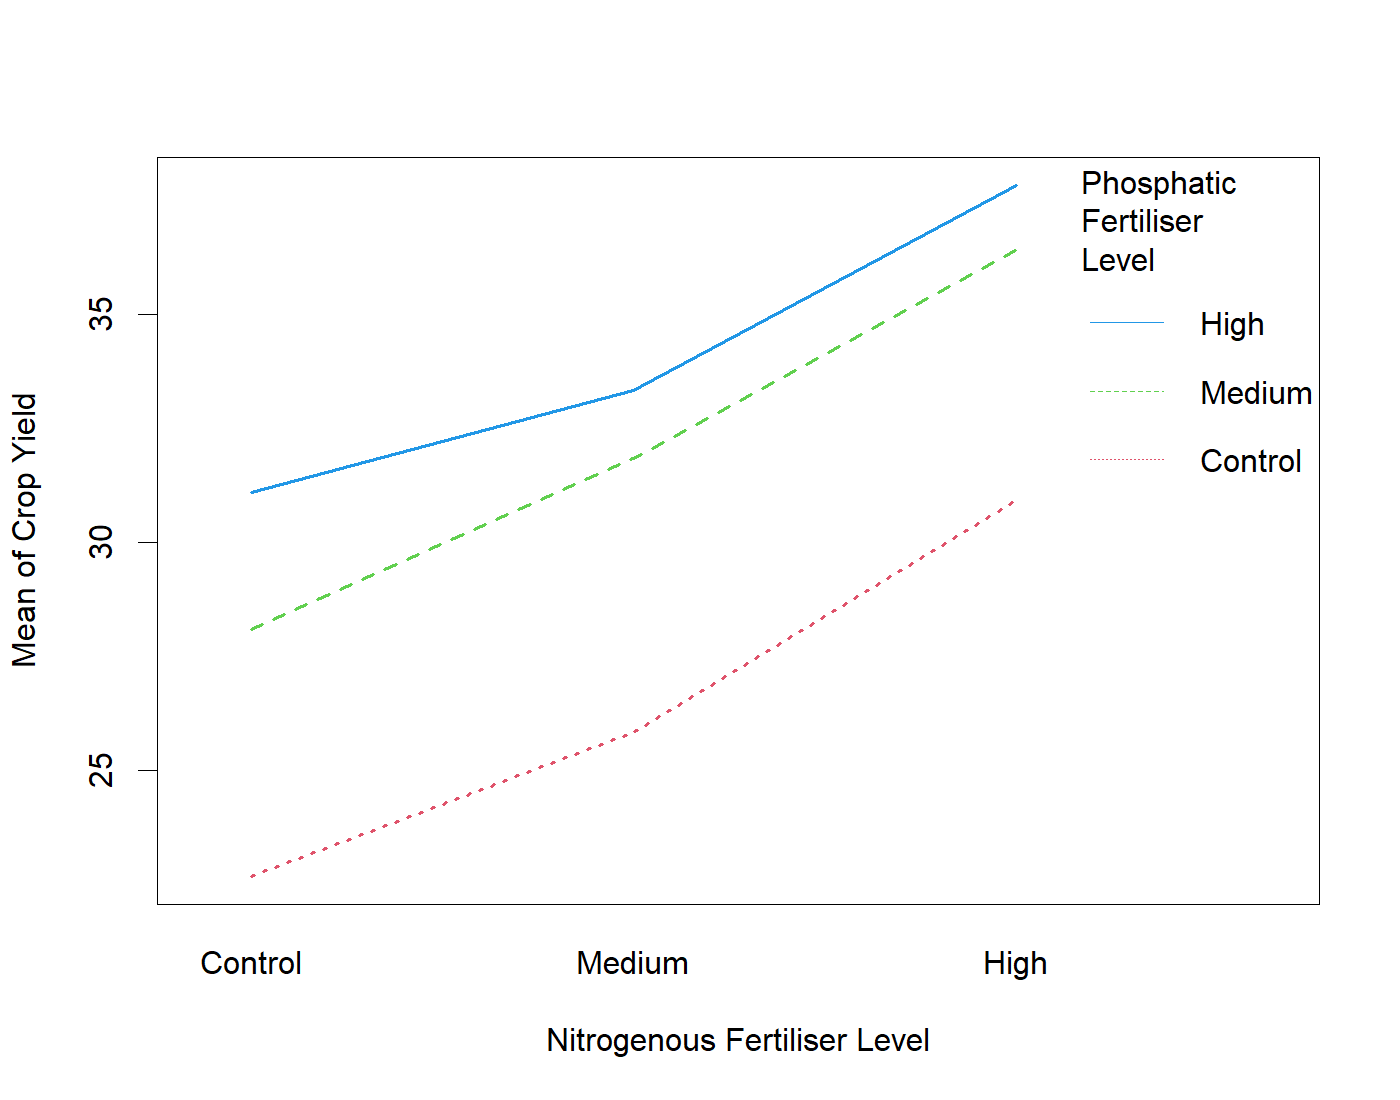
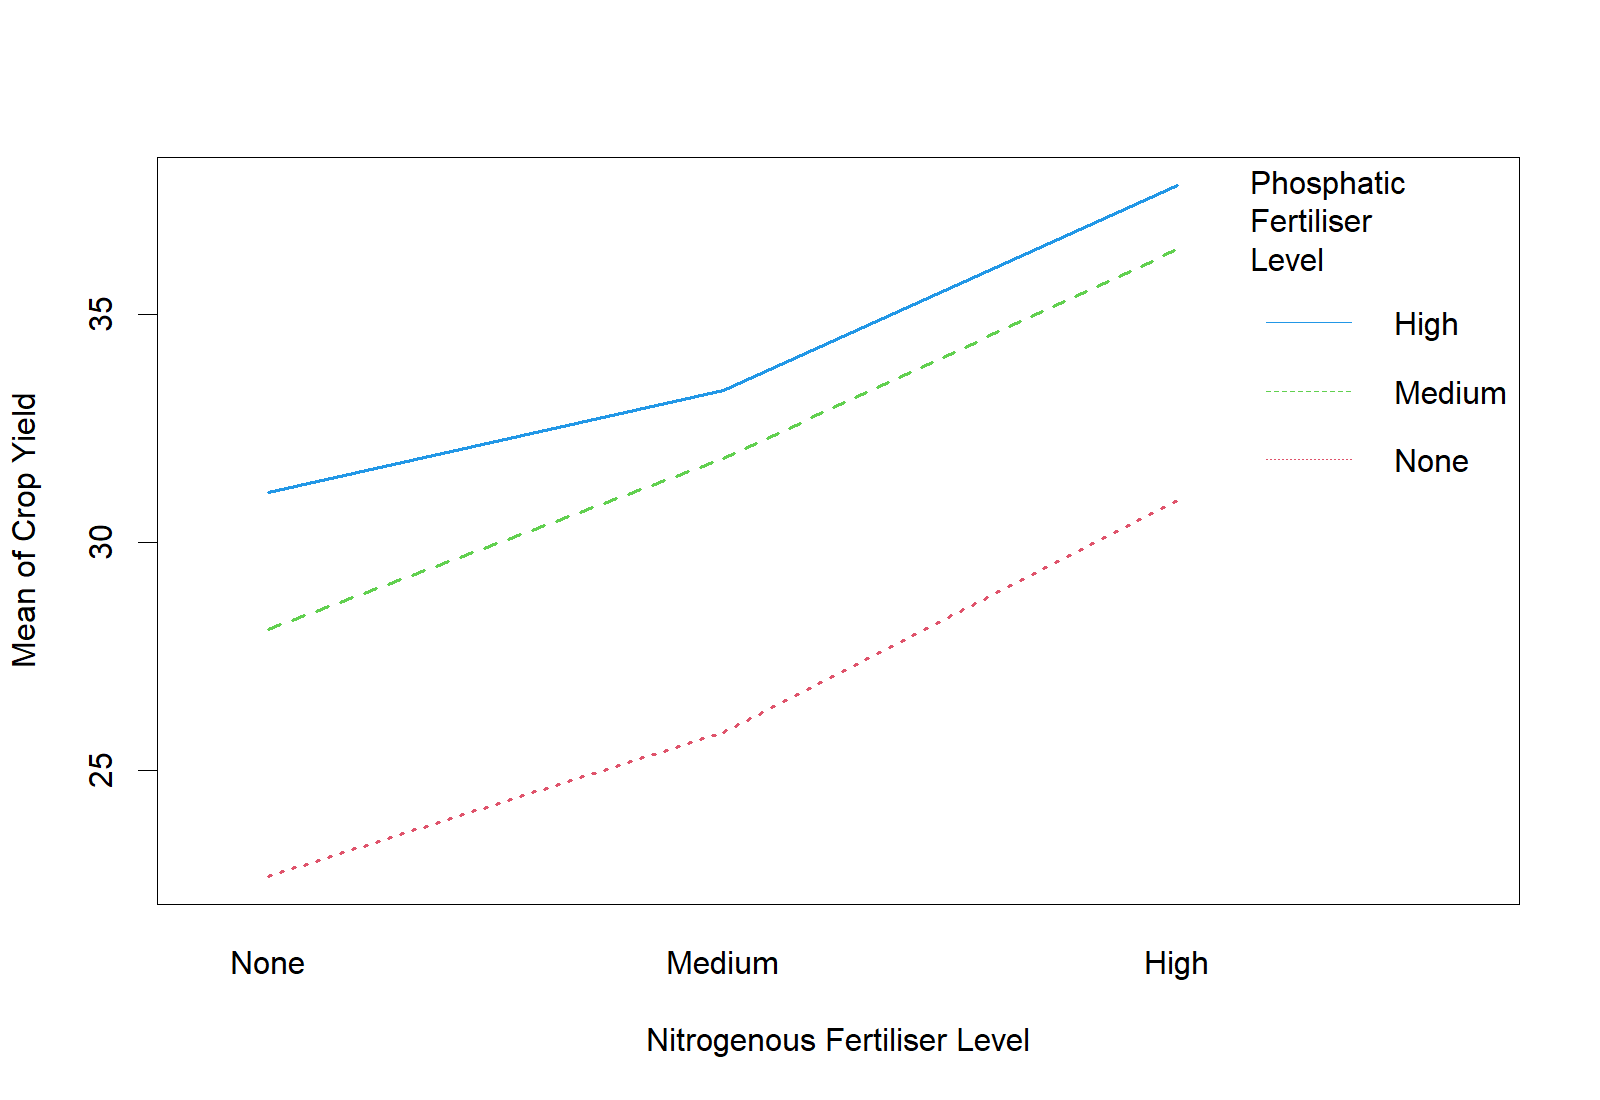
Updates from Overleaf

diff --git a/main.tex b/main.tex
@@ -19,6 +19,11 @@ However, it is possible that when used in combination, N and P could possibly in
 By conducting this statistical experiment, we first aim to confirm the relationship between N and P levels in fertiliser with crop yield.
 Then, we will test for a relationship between the levels of each chemical with the optimal level of the other.
 The null hypothesis ($H_0$) for this experiment will be that there is no relationship between the two variables and the total crop yield.
+\begin{itemize}
+    \item criteria sheet says to talk about why the study is interesting. i might've messed up by picking plants, sorry about that. good luck
+    \item also the introduction should probably have some references. looking at examples, we should probably include something about nitrogenous and phosphatic fertilisers and what we already know about how they affect crop yield.
+\end{itemize}
+
 
 \section{Methods}
 \textit{The Islands} are made up of three separate islands, with each containing a "field station".
@@ -37,25 +42,69 @@ The Island consist of 3 islands, with each island having a field station.
 Each field station is divided into 36 different plots.
 Each p different levels of nitrogenous and phosphatic fertilisers.
 2 days after
+\subsection{Statistical Model}
+The statistical model used for this study will be a two-factor ANOVA model.
+
+\subsection{Hypothesises}
+Our null hypothesis \(H_0\) will be
 
 \section{Results}
-\begin{tabular}    
-\end{tabular}
-
-\begin{figure}[h]
+\begin{figure}[ht]
     \centering
-    \includegraphics[width=0.8\linewidth]{Figures/Interaction Plot (Nitrogenous).png}
+    \caption{Summary of Data}
+    \begin{tabular}{c|c|c|c|c}
+         \textbf{Nitrogen Level} & \textbf{Phosphate Level} & \textbf{Mean Yield} & \textbf{SD} & \textbf{n}\\ \hline
+         None & None & 22.67 & 1.50 & 12\\
+         None & Medium & 28.08 & 0.67 & 12\\
+         None & High & 31.08 & 1.44 & 12\\
+         Medium & None & 25.83 & 2.55 & 12\\
+         Medium & Medium & 31.83 & 2.69 & 12\\
+         Medium & High & 33.33 & 3.45 & 12\\
+         High & None & 30.92 & 3.34 & 12\\
+         High & Medium & 36.42 & 2.54 & 12\\
+         High & High & 37.83 & 2.72 & 12
+    \end{tabular}
+\end{figure}
+\vspace{3em}
+\begin{figure}[ht]
+    \centering
+    \caption{Two-factor ANOVA table}
+    \begin{tabular}{cccccc}
+    \hline
+    \makecell{Source\\ of Variation} & \makecell{Degrees\\ of Freedom} & \makecell{Sum\\ of Squares} &  \makecell{Mean\\ of Squares} & F value & \(P(f > F)\)\\ \hline
+    Nitrogenous & 2 & 1105.56 & 552.78 & 89.7131 & \(<\)2e-16\\
+    Phosphatic & 2 & 1123.39 & 561.69 & 91.1602 & \(<\)2e-16\\
+    Interaction & 4 & 11.72 & 2.93 & 0.4756 & 0.7535\\
+    Error & 99 & 610.00 & 6.16\\ \hline
+    \end{tabular}
 \end{figure}
 
-\begin{figure}[h]
+\begin{figure}[ht]
     \centering
+    \includegraphics[width=0.8\linewidth]{Figures/Interaction Plot (Nitrogenous).png}
+    \caption{Interaction Plot (Nitrogenous)}
+\end{figure}
+
+\begin{figure}[ht]
+    \centering
+    \caption{Interaction Plot (Phosphatic)}
     \includegraphics[width=0.8\linewidth]{Figures/Interaction Plot (Phosphatic).png}
 \end{figure}
 
 
 \section{Discussion}
+\begin{itemize}
+    \item p values are significant for nitrogenous and phosphatic, but not for interaction
+    \item should reject null hypothesis for nitrogenous and phosphatic, fail to reject interaction null hypothesis
+    \item both interaction plots show little variation in gradient between the different coloured lines, visual evidence of little interaction effect
+    \item need limitations: could talk about harvesting plants after 2 days, maybe too short due to time constraints (real reason is didnt know if they would keep growing btw). maybe an interaction couldve occured over long term?
+    \item any other limitations
+\end{itemize}
 
 \section{Conclusion}
+\begin{itemize}
+    \item can summarise results if want, this section might not be needed though
+\end{itemize}
 
 \newpage
 

diff --git a/preamble.tex b/preamble.tex
@@ -14,3 +14,4 @@
 \usepackage{url}
 \usepackage{caption}
 \usepackage{subcaption}
+\usepackage{makecell}
